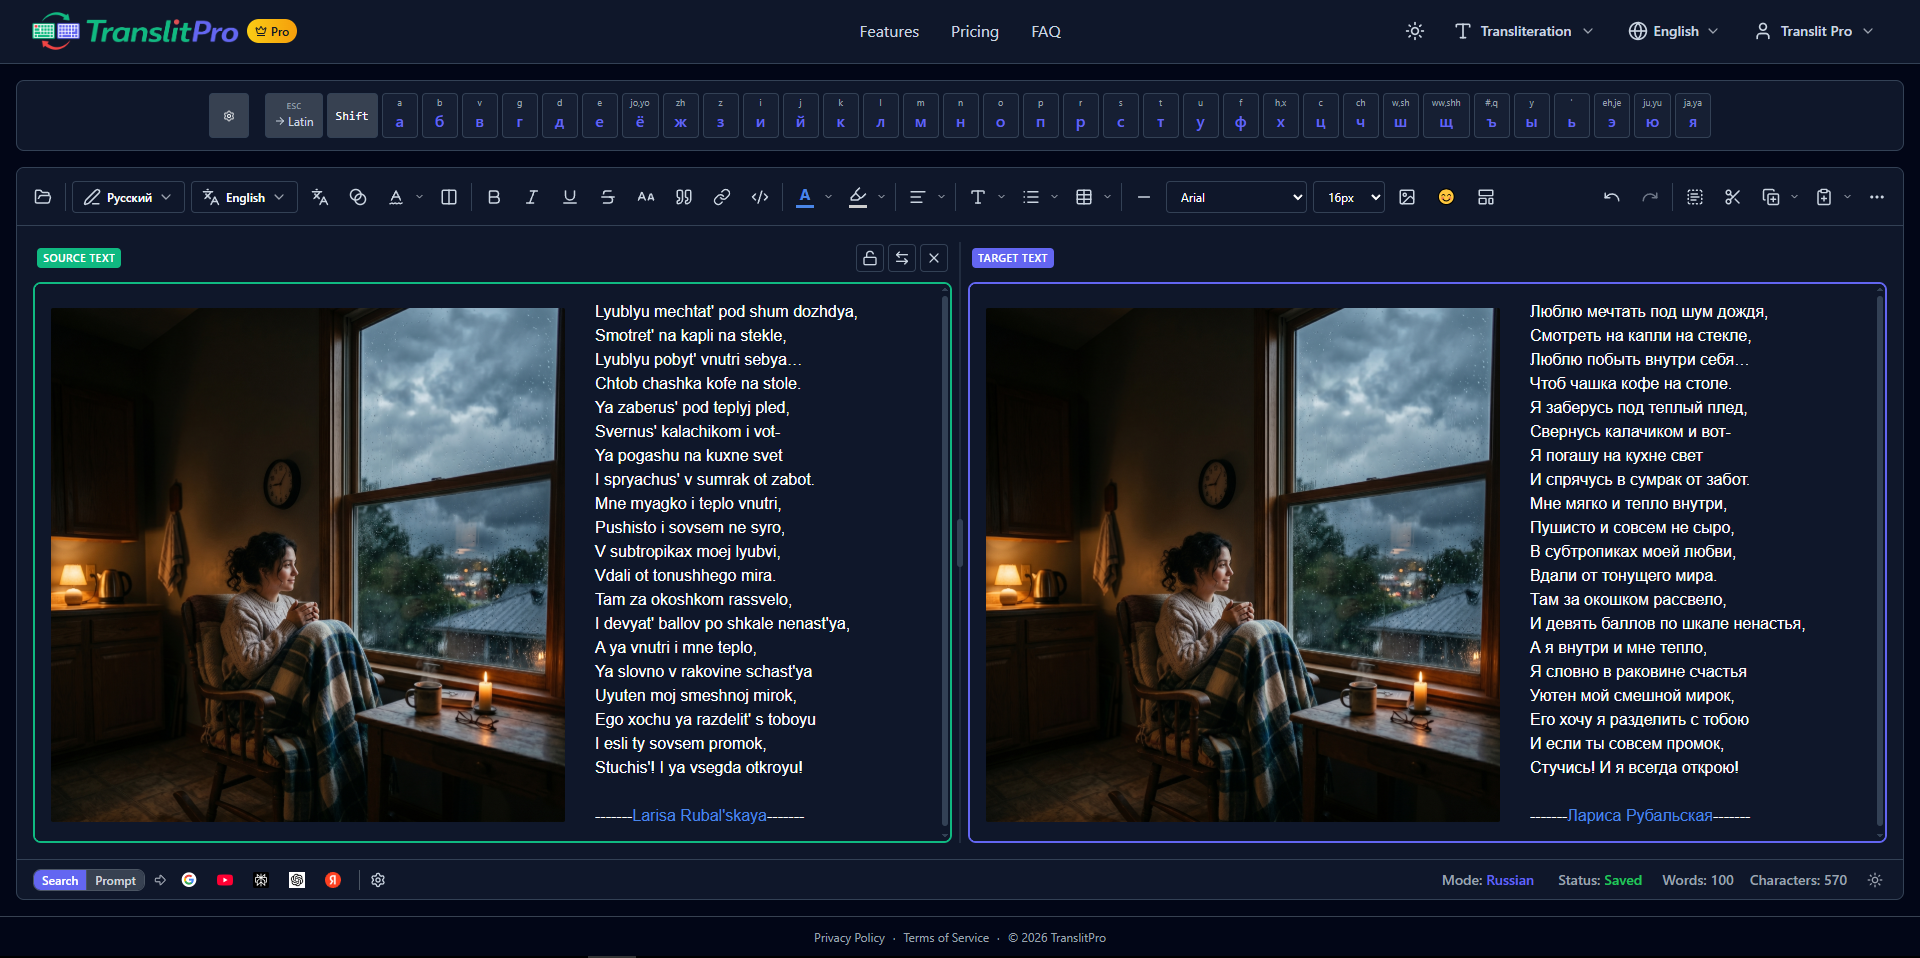
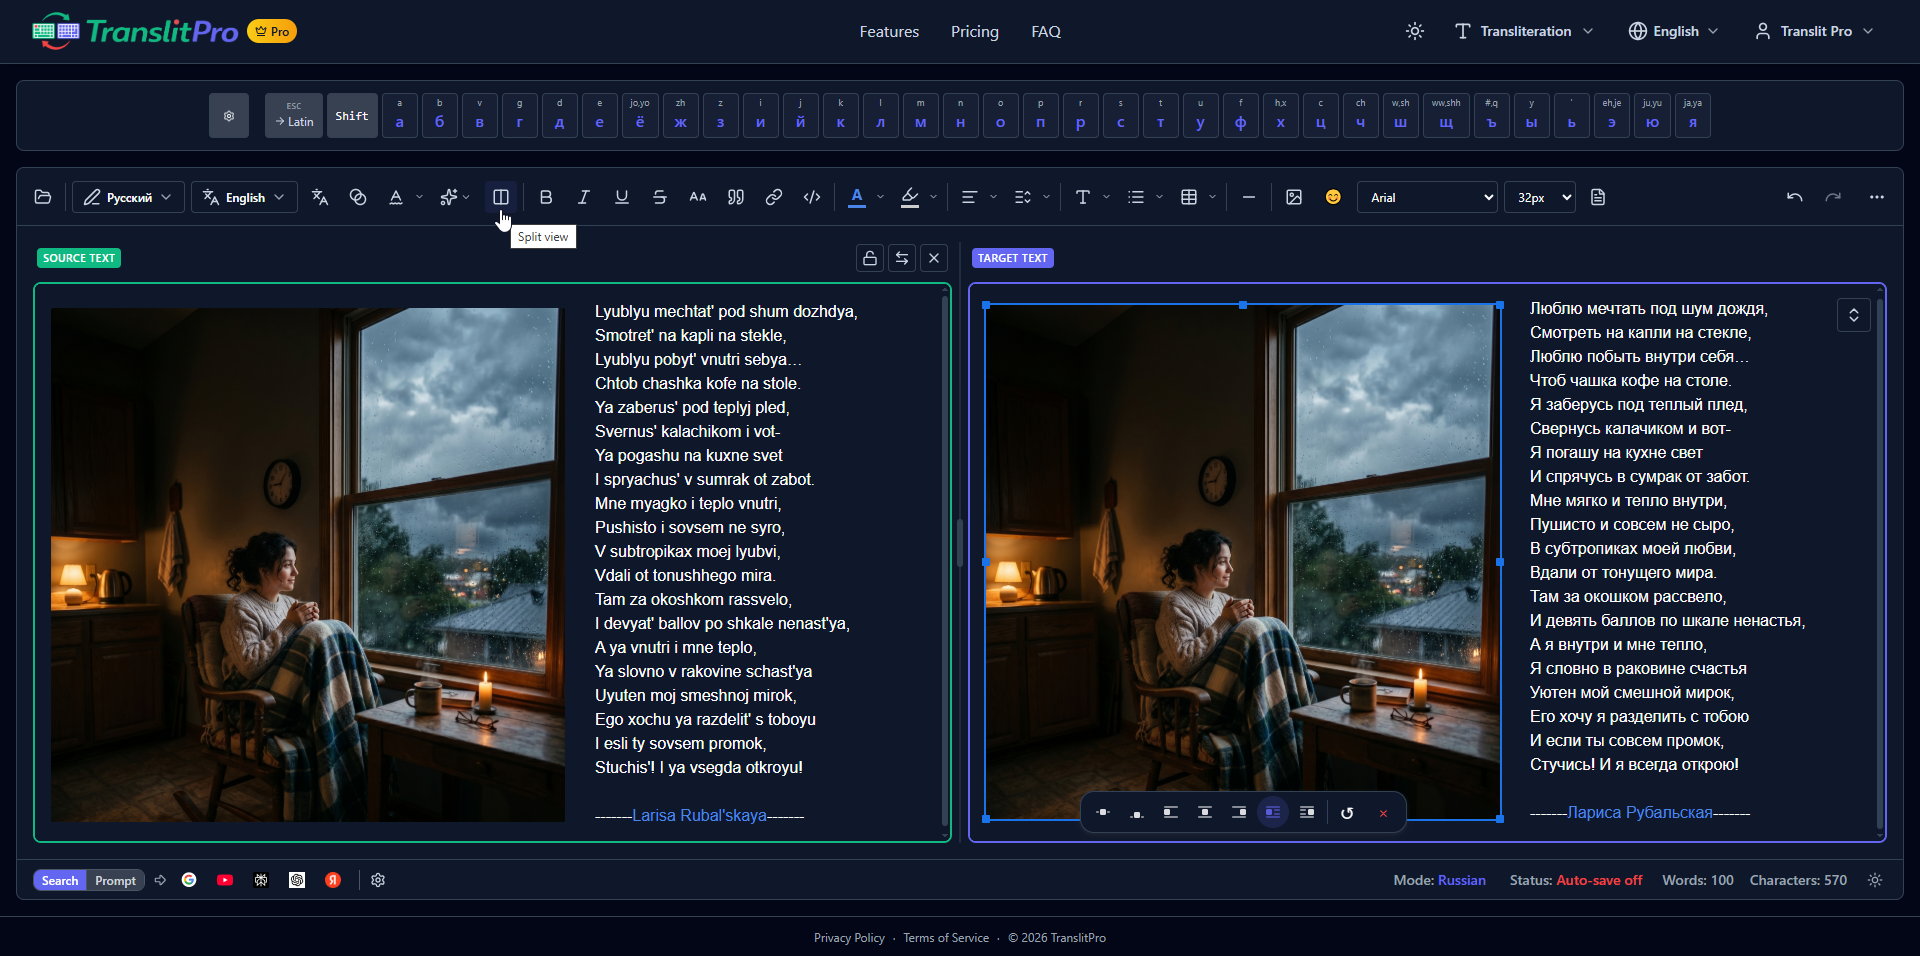
feat: split english landing into workspace and transliteration pages

diff --git a/README.md b/README.md
@@ -1,10 +1,10 @@
 # TranslitPro Landing Page
 
-Marketing landing page for [TranslitPro](https://app.translitpro.com) - a desktop transliteration suite for 13+ languages.
+Marketing landing page for [TranslitPro](https://app.translitpro.com) — a multilingual writing workspace with transliteration, AI-assisted cleanup, translation, cloud documents, and export tools.
 
 ## Overview
 
-This is a static landing page built with Astro and Tailwind CSS, deployed to Cloudflare Pages. It showcases TranslitPro's features, pricing, and FAQs to convert visitors into users.
+This is a static landing page built with Astro and Tailwind CSS, deployed to Cloudflare Pages. The English homepage at `/` now positions TranslitPro as an AI-powered multilingual writing workspace, while `/transliteration/` preserves the original transliteration-first landing experience. Localized `/{lang}/` pages still use the existing transliteration-focused structure.
 
 ## Tech Stack
 
@@ -26,13 +26,17 @@ This is a static landing page built with Astro and Tailwind CSS, deployed to Clo
 ├── src/
 │   ├── components/
 │   │   ├── Header.astro      # Navigation header with language dropdown
-│   │   ├── Hero.astro        # Hero section with CTA
-│   │   ├── Features.astro    # Features grid
+│   │   ├── Hero.astro        # Legacy transliteration hero used on /transliteration and localized pages
+│   │   ├── Features.astro    # Legacy feature grid used on /transliteration and localized pages
 │   │   ├── Pricing.astro     # Pricing tiers
 │   │   ├── FAQ.astro         # FAQ accordion with structured data
 │   │   ├── Footer.astro      # Footer with links
 │   │   ├── ContactModal.astro # Contact support modal with EmailJS
-│   │   └── LanguageDropdown.astro  # Language switcher component
+│   │   ├── LanguageDropdown.astro  # Language switcher component
+│   │   └── workspace/
+│   │       ├── WorkspaceHero.astro      # English / hero for the workspace-positioned homepage
+│   │       ├── WorkspacePillars.astro   # Three-pillar positioning section
+│   │       └── WorkspaceAnywhere.astro  # Capture → Assist → Deliver workflow section
 │   ├── features/
 │   │   └── pricing/
 │   │       └── getPricingTiers.ts # Centralized plan prices (single source of truth)
@@ -56,9 +60,10 @@ This is a static landing page built with Astro and Tailwind CSS, deployed to Clo
 │   ├── layouts/
 │   │   └── BaseLayout.astro  # Base HTML layout with SEO meta tags
 │   ├── pages/
-│   │   ├── index.astro       # Main landing page (English)
+│   │   ├── index.astro       # English workspace-positioned homepage at /
+│   │   ├── transliteration.astro # English transliteration-first landing page at /transliteration/
 │   │   ├── [lang]/
-│   │   │   └── index.astro   # Localized landing pages (ru, uk, he, …)
+│   │   │   └── index.astro   # Localized transliteration-focused landing pages (ru, uk, he, …)
 │   │   ├── scripts/
 │   │   │   ├── cyrillic.astro  # SEO landing page — /scripts/cyrillic
 │   │   │   ├── hebrew.astro    # SEO landing page — /scripts/hebrew
@@ -117,6 +122,14 @@ To test the landing page CTAs with a locally running main app:
 
 **Note:** Remove or comment out `PUBLIC_APP_URL` in `.env` before deploying, or simply delete the `.env` file. The production default (`https://app.translitpro.com`) will be used automatically.
 
+## Route Structure
+
+- `/` — English homepage positioned as the multilingual writing workspace
+- `/transliteration/` — English transliteration-focused landing page
+- `/{lang}/` — localized transliteration-focused landing pages
+- `/scripts/{script}` — English-only script SEO pages
+- `/ru/scripts/russian/` — Russian-language SEO page
+
 ## Styling
 
 The landing page uses **Tailwind CSS v4** with static utility classes for styling.
@@ -159,23 +172,35 @@ Or connect the GitHub repo to Cloudflare Pages for automatic deployments on push
 
 ## Landing Page Sections
 
+### English homepage (`/`)
+
 1. **Header** - Fixed navigation with logo, nav links (Features, Pricing, FAQ), Sign In / Back to App (toggled by cookie — see below) and Try Free CTAs
-2. **Hero** - Main headline, subheadline, CTA buttons, visual demo, trust indicators
-3. **Feature Spotlights** - Three full-width narrative sections pairing copy with a visual:
-   - **Keyboard** (`FeatureSpotlights.astro`) — video: `/videos/TranslitPro - Native vs Latin.mp4`
-   - **Bookmarklet** — video: `/videos/TranslitPro - Bookmarklet.mp4`
-   - **Editor** — screenshot: `/screenshots/TranslitPro_RichTextEditor.png`
-   - All visuals are clickable and open in a full-screen lightbox. Videos play with controls and audio in the lightbox, and reset on close (Escape or click backdrop).
-4. **Features** - 8 feature cards: Type Naturally, 13+ Languages, Add Any Language, Bookmarklet, Translation, AI Assistance, Powerful Editor, Export
-5. **Pricing** - 4 tiers with tabbed cards:
+2. **Workspace Hero** - Workspace positioning, brand-colored headline emphasis, CTA buttons, and multilingual editor mockup
+3. **Workspace Pillars** - Three positioning cards: multilingual writing, AI assistance, and workspace organization
+4. **Workspace Anywhere** - Capture → Assist → Deliver workflow section framing transliteration as the entry point to a broader writing flow
+5. **Testimonials** - Social proof grid
+6. **Pricing** - 4 tiers with tabbed cards:
    - **Free** — Preview tab (no account) / Workspace tab (free account); different feature lists per tab
    - **Basic** — $3/mo or $29/yr; Monthly/Annual tabs; monthly view shows approximate cost per day (~$0.10/day), annual view shows savings (Save $7)
    - **Pro** — $7/mo or $69/yr; Monthly/Annual tabs; monthly view shows approximate cost per day (~$0.23/day), annual view shows savings (Save $15); "Most Popular" yellow badge
    - **Founder** — $79 one-time; "Limited Time" brand-purple badge in tab-sized frame; launch pricing note below price
    - **Image support limits** per tier: Free Preview — up to 2 images/doc (2 MB); Workspace — up to 3 images/doc (5 MB); Basic — up to 20 images/doc (10 MB); Pro/Founder — unlimited
-5. **FAQ** - 8 expandable questions with SEO structured data, Contact Support button
-6. **Contact Modal** - Contact support form with EmailJS integration (RTL-aware)
-7. **Footer** - Product links, Scripts (Cyrillic, Hebrew, Greek, etc.), Legal, Social (Twitter, Facebook)
+7. **FAQ** - 8 expandable questions with SEO structured data, Contact Support button
+8. **Footer** - Product links, Scripts (Cyrillic, Hebrew, Greek, etc.), Legal, Social (Twitter, Facebook)
+
+### Transliteration landing (`/transliteration/` and localized `/{lang}/` pages)
+
+1. **Hero** - Main headline, subheadline, CTA buttons, visual demo, trust indicators
+2. **Feature Spotlights** - Three full-width narrative sections pairing copy with a visual:
+   - **Keyboard** (`FeatureSpotlights.astro`) — video: `/videos/TranslitPro - Native vs Latin.mp4`
+   - **Bookmarklet** — video: `/videos/TranslitPro - Bookmarklet.mp4`
+   - **Editor** — screenshot: `/screenshots/TranslitPro_RichTextEditor.png`
+   - All visuals are clickable and open in a full-screen lightbox. Videos play with controls and audio in the lightbox, and reset on close (Escape or click backdrop).
+3. **Features** - 8 feature cards: Type Naturally, 13+ Languages, Add Any Language, Bookmarklet, Translation, AI Assistance, Powerful Editor, Export
+4. **Testimonials** - Social proof grid
+5. **Pricing** - Shared pricing section
+6. **FAQ** - Shared FAQ section
+7. **Footer** - Shared footer section
 
 ### Pricing configuration
 

diff --git a/CLAUDE.md b/CLAUDE.md
@@ -19,11 +19,20 @@ There are no lint or test commands.
 ### Routing & i18n
 
 - `/` → English (no prefix)
+- `/transliteration/` → English transliteration-focused landing page
 - `/{lang}/` → all other languages (e.g. `/ru/`, `/he/`)
-- `src/pages/index.astro` — English page
-- `src/pages/[lang]/index.astro` — generates all other locales via `getStaticPaths()`
+- `src/pages/index.astro` — English workspace-positioned homepage
+- `src/pages/transliteration.astro` — English transliteration-focused landing page
+- `src/pages/[lang]/index.astro` — generates all other locales via `getStaticPaths()` and keeps the transliteration-focused layout
 - Hebrew (`he`) gets `dir="rtl"` on `<html>`; all others are LTR
 - `BaseLayout.astro` contains a client-side script that reads a `?lang=xx` query param and redirects to the matching locale route (preserving hash anchors). This is how external links pass language context.
+
+### Homepage split
+
+- The English `/` homepage now positions TranslitPro as an AI-powered multilingual writing workspace.
+- The previous English homepage experience was preserved at `/transliteration/`.
+- New workspace-only sections live under `src/components/workspace/` (`WorkspaceHero.astro`, `WorkspacePillars.astro`, `WorkspaceAnywhere.astro`).
+- Localized `/{lang}/` pages still use the transliteration-focused page until translated equivalents are intentionally created.
 
 ### SEO pages
 

diff --git a/CHANGELOG.md b/CHANGELOG.md
@@ -4,6 +4,14 @@ All notable changes to this project will be documented in this file.
 
 ## [Unreleased]
 
+### Added
+- **Routing**: Added a dedicated English `/transliteration/` page that preserves the original transliteration-focused landing experience.
+- **Homepage**: Added modular workspace landing sections in `src/components/workspace/` (`WorkspaceHero`, `WorkspacePillars`, `WorkspaceAnywhere`) for the English root page.
+- **Screenshots**: Added `public/screenshots/feature-ai-rewrite.png` to the marketing asset set.
+
 ### Changed
+- **Homepage**: Repositioned the English `/` landing page around an AI-powered multilingual writing workspace while keeping localized `/{lang}/` pages on the existing transliteration-focused structure.
+- **WorkspaceHero**: Updated the hero headline copy and applied brand-color emphasis to “multilingual” and “workspace”.
+- **Screenshots**: Replaced `public/screenshots/feature-type-naturally.png` with an updated image.
 - **FeatureSpotlights**: Restructured keyboard and bookmarklet spotlight sections from a 50/50 side-by-side grid to a full-width layout (text centered above, visual spanning the full container width), matching the existing editor spotlight layout
 - **FeatureSpotlights**: All three spotlight visuals (two videos + one image) are now clickable and open in a full-screen lightbox overlay; videos play with controls and audio in the lightbox, and reset when closed
